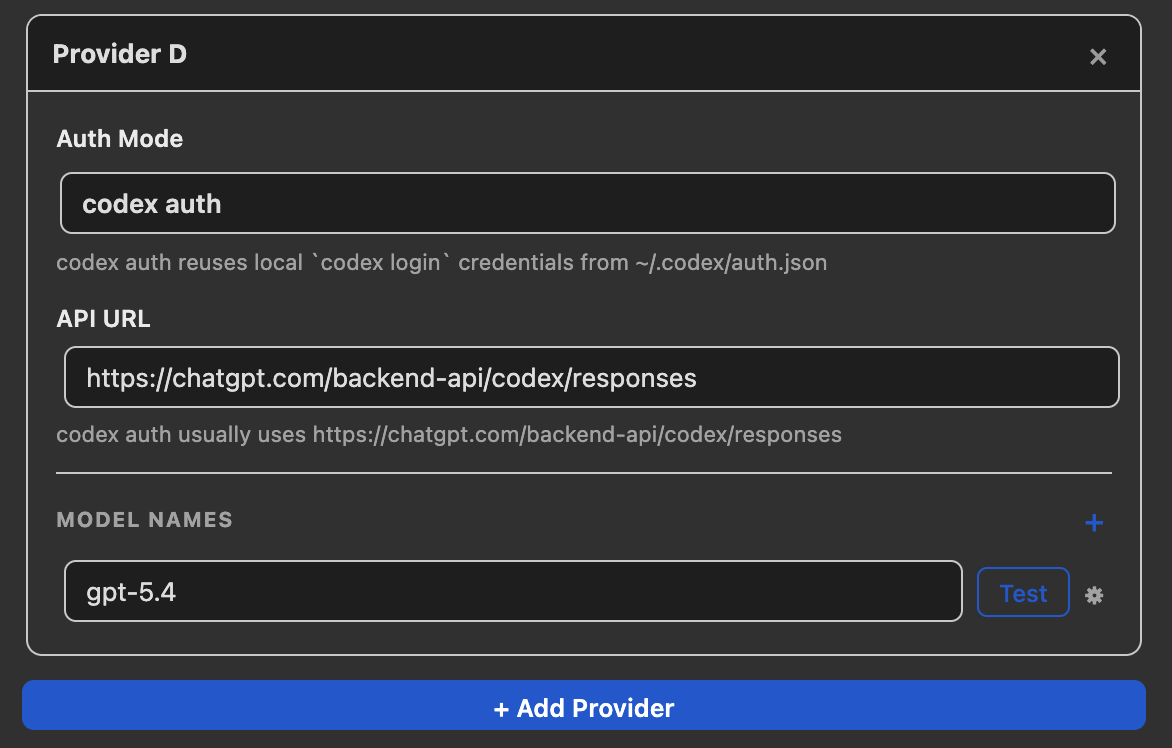
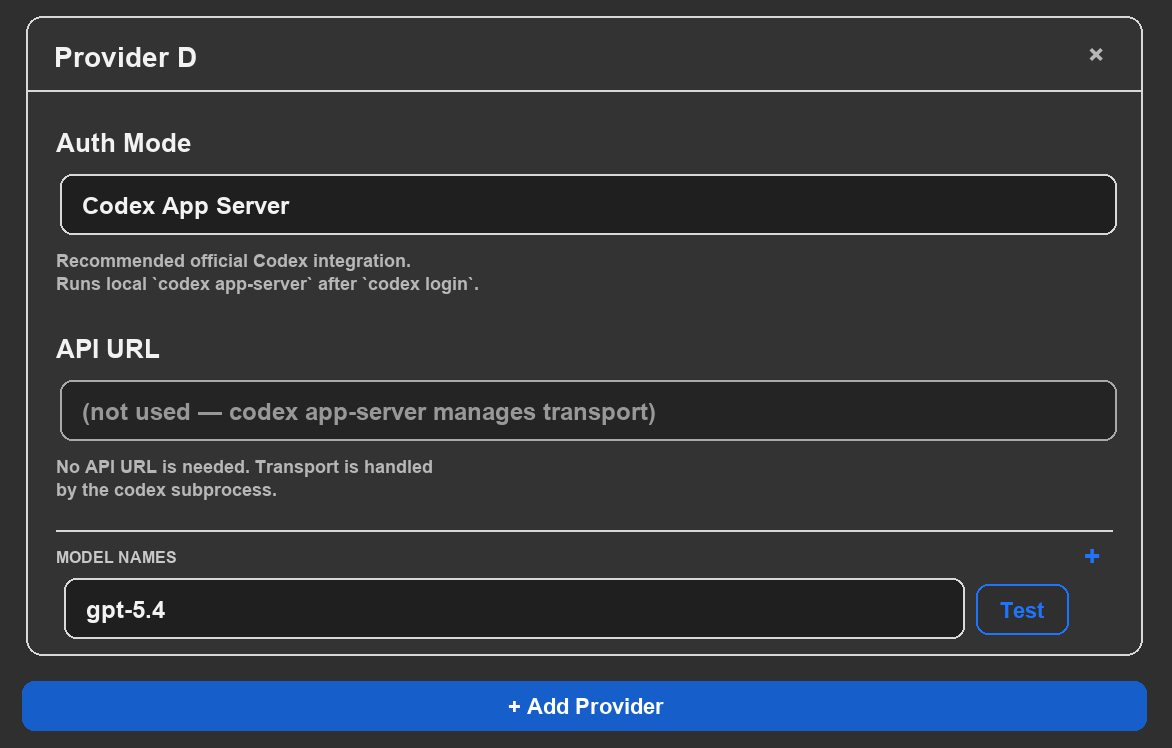
update docs

diff --git a/_pages/llm-for-zotero.md b/_pages/llm-for-zotero.md
@@ -31,7 +31,7 @@ lang_alt: /llm-for-zotero/zh/
   </div>
   <div class="rtd-feature-card">
     <strong>Multi-Provider Support</strong>
-    <p>OpenAI, Gemini, DeepSeek, local OpenAI-compatible models, and more.</p>
+    <p>OpenAI, Anthropic, Gemini, DeepSeek, local OpenAI-compatible models, and more.</p>
   </div>
   <div class="rtd-feature-card">
     <strong>Agent Mode (Beta)</strong>
@@ -46,12 +46,12 @@ lang_alt: /llm-for-zotero/zh/
     <p>Open the LLM Assistant in its own dedicated window with a full-sized chat interface and conversation history sidebar.</p>
   </div>
   <div class="rtd-feature-card">
-    <strong>Obsidian Integration</strong>
-    <p>Write notes from Zotero papers directly to your Obsidian vault with metadata, citations, and extracted figures.</p>
+    <strong>File-Based Notes</strong>
+    <p>Save research notes as Markdown files in Obsidian, Logseq, or any local notes folder with metadata, citations, and extracted figures.</p>
   </div>
   <div class="rtd-feature-card">
     <strong>Customizable Skills</strong>
-    <p>9 built-in skills guide the agent's workflows for common tasks. Create your own with simple Markdown files.</p>
+    <p>8 built-in skills guide the agent's workflows for common tasks. Create your own with simple Markdown files.</p>
   </div>
 </div>
 
@@ -59,14 +59,13 @@ lang_alt: /llm-for-zotero/zh/
 
 ## Recent Updates
 
-- **Skills**: Customizable guidance files that shape how the agent handles different tasks. 9 built-in skills included, plus a portal for creating your own. See [Skills](#skills).
-- **Standalone Window Mode**: Open the LLM Assistant in its own dedicated window, separate from the reader sidebar. See [Standalone Window Mode](#standalone-window-mode).
-- **Obsidian Integration**: Write notes from Zotero papers directly to your Obsidian vault with customizable templates. See [Obsidian Integration](#obsidian-integration).
-- **Agent Mode (Beta)**: LLM-for-Zotero can now act as an autonomous agent inside your Zotero library.
-- **Terminal & File Access**: The agent can execute shell commands and read/write files on your local machine — like a coding agent inside Zotero.
-- **MCP Server**: External AI agents can connect to Zotero via the built-in Model Context Protocol server.
-- **Codex auth**: ChatGPT Plus subscribers can use Codex models such as `gpt-5.4` without a separate API key.
-- **MinerU PDF parsing**: High-fidelity extraction now preserves tables, equations, and figures more accurately.
+- **Codex App Server (recommended)**: ChatGPT Plus subscribers should use `Codex App Server`, the official local `codex app-server` auth flow, for Codex models such as `gpt-5.4` without an API key. The older direct backend flow remains available as `Codex Auth (Legacy)` for current users. Feature contributed by [@boltma](https://github.com/boltma) and [@jianghao-zhang](https://github.com/jianghao-zhang). See [Codex Setup](#codex-setup-chatgpt-plus-subscribers).
+- **Agent actions on flexible paper scopes**: `auto_tag` and `complete_metadata` now work on the current paper, selected papers, selected collections, or the whole library, with review cards before batch changes are applied.
+- **File-Based Notes**: Notes are no longer hard-coded to Obsidian. Configure any local Markdown directory, including Obsidian, Logseq, or a plain folder. See [File-Based Notes](#file-based-notes).
+- **Standalone note editing fixes**: Standalone windows now preserve the active note-editing context in the context area.
+- **Claude/Anthropic compatibility fixes**: Anthropic message sequencing was updated and Claude Opus 4.7 support was added.
+- **Skills**: Customizable guidance files shape how the agent handles different tasks. 8 built-in skills are included, plus a portal for creating your own. See [Skills](#skills).
+- **MinerU PDF parsing**: High-fidelity extraction preserves tables, equations, and figures more accurately.
 
 ---
 
@@ -260,42 +259,42 @@ While the standalone window is open, the reader sidebar panels show a placeholde
 
 ---
 
-## Obsidian Integration
+## File-Based Notes
 
-The agent can write notes from your Zotero papers directly into your [Obsidian](https://obsidian.md/) vault &mdash; with full metadata, citations, and optionally extracted figures.
+Beyond Zotero's built-in notes, the agent can save research notes as Markdown files in any local directory you choose. The plugin is **not tied to any specific note-taking app**: point it at an Obsidian vault, a Logseq graph, or a plain folder of `.md` files.
 
 ### Configuration
 
-Open **Preferences** &rarr; **llm-for-zotero** and scroll to the **Obsidian Integration** section.
+Open **Preferences** &rarr; **llm-for-zotero** and scroll to the **Notes Directory** section.
 
-<img src="/images/llm-for-zotero/obsidian_setting.png" alt="Obsidian Integration settings" style="max-width:512px;">
+<img src="/images/llm-for-zotero/outside_notes.png" alt="Notes Directory settings" style="max-width:512px;">
 
-| Setting | Description | Default |
+| Setting | Description | Example |
 |---|---|---|
-| **Vault Path** | Absolute path to your Obsidian vault root | _(required)_ |
-| **Default Folder** | Subfolder for notes (created if it doesn't exist) | `Logs` |
-| **Attachments Folder** | Subfolder for copied figures and images | `imgs` |
-| **Note Template** | Markdown template with `{% raw %}{{title}}{% endraw %}`, `{% raw %}{{date}}{% endraw %}`, `{% raw %}{{content}}{% endraw %}` placeholders | Built-in default |
+| **Nickname** | How you refer to this directory in chat; the agent recognizes the name when you mention it | `Obsidian`, `Logseq` |
+| **Notes Directory Path** | Absolute path to the root directory where notes are saved | `/Users/me/MyVault` |
+| **Default Folder** | Default subfolder for new notes; the agent can write elsewhere if you ask it to | `Logs` |
+| **Attachments Folder** | Folder for copied figures and images, relative to the directory root | `Logs/imgs` |
 
-Click **Test Write Access** to verify the plugin can write to your vault.
+Click **Test Write Access** to verify the plugin can write to your directory.
 
 ### How it works
 
-Ask the agent to write a note to Obsidian (e.g. *"Summarize this paper and save it to Obsidian"*). The agent will:
+Ask the agent to write a note using the nickname you configured, for example *"Summarize this paper and save it to Obsidian"* or *"Log this to my Logseq"*. The agent will:
 
-1. **Gather content** from the paper (metadata, summary, key points, etc.).
-2. **Compose a Markdown note** using your configured template.
-3. **Add YAML frontmatter** with title, date, tags, authors, year, and citation key.
-4. **Copy figures** (optional) from MinerU-parsed PDFs into the attachments folder.
-5. **Write the note** to `{vault_path}/{default_folder}/{title}.md`.
+1. **Gather content** from the paper, including metadata, summary, key points, and figures when available.
+2. **Compose a Markdown note** following the `write-note` skill.
+3. **Add YAML frontmatter** matching the `write-note` template: `title`, `created`, `tags`, `citekey`, `doi`, and `journal`; author information stays in the note body.
+4. **Copy figures** from MinerU-parsed PDFs into the attachments folder when requested.
+5. **Write the note** to `{notes_directory}/{default_folder}/{title}.md`.
 
-<img src="/images/llm-for-zotero/obsidian_example.png" alt="A Zotero paper note in Obsidian">
+<img src="/images/llm-for-zotero/obsidian_example.png" alt="A Zotero paper note rendered in Obsidian">
 
-Notes use [Pandoc citation syntax](https://pandoc.org/MANUAL.html#citations) (`[@citekey]`), compatible with Obsidian's Zotero Integration and Pandoc plugins.
+Notes use [Pandoc citation syntax](https://pandoc.org/MANUAL.html#citations) (`[@citekey]`), compatible with Obsidian's Zotero Integration and Pandoc plugins, as well as most Markdown readers.
 
 <div class="rtd-tip">
   <div class="rtd-admonition-title">Tip</div>
-  The Obsidian integration works best when <strong>Agent Mode</strong> is enabled. The agent handles content extraction, template formatting, and file writing automatically.
+  Note templates and figure-embedding rules live in the <code>write-note</code> skill. Open the Standalone Window, then the Skills portal, to customize them.
 </div>
 
 ---
@@ -307,45 +306,49 @@ Notes use [Pandoc citation syntax](https://pandoc.org/MANUAL.html#citations) (`[
   Agent Mode is disabled by default. Enable it in <strong>Preferences</strong>, then toggle <strong>Agent (beta)</strong> in the context bar.
 </div>
 
-When enabled, the LLM becomes an **autonomous agent** that can read, search, and write within your Zotero library — and beyond. In addition to library operations, the agent can execute terminal commands and access files on your local machine, functioning like a coding agent inside Zotero. All write operations require your explicit approval before execution.
+When enabled, the LLM becomes an **autonomous agent** that can read, search, and write within your Zotero library. Read tools run directly; write tools route through confirmation cards and stay undoable.
 
-### Read Tools
+### Library & PDF Reading Tools
 
-These tools let the agent explore your library and the scholarly web without modifying anything.
+These tools let the agent explore your library, PDFs, attachments, and scholarly sources without modifying anything.
 
 | Tool | Description |
 |---|---|
-| `query_library` | Search and list Zotero items, collections, related papers, and duplicates. Supports multiple query modes (list, search, duplicates, unfiled, untagged) with filtering by collection, PDF status, and tags |
-| `read_library` | Read structured item state: metadata, notes, annotations, attachments (all types), and collection membership |
-| `inspect_pdf` | Advanced PDF operations: read front matter, search pages, retrieve evidence, render pages, capture the active reader view, and read specific chunks or full documents |
-| `search_literature_online` | Search live scholarly sources (OpenAlex, arXiv, EuropePMC) or fetch external metadata (CrossRef, Semantic Scholar). Modes: recommendations, references, citations, search, metadata |
+| `query_library` | Discover Zotero items and collections: search or list any item type, filter by author, year, collection, item type, or tag, browse the collection tree, find related papers, and detect duplicates |
+| `read_library` | Read structured item state for one or more items: metadata, notes, annotations, attachments, and collection membership |
+| `read_paper` | Read text content from a PDF, either opening sections by default or specific section indexes, with up to 20 papers per call |
+| `search_paper` | Find evidence in papers via a question and return ranked relevant passages, with up to 10 papers per call |
+| `view_pdf_pages` | Render PDF pages as images for visual analysis, by question, by page number, or by capturing the currently visible page |
+| `read_attachment` | Read any Zotero attachment by ID, including HTML snapshots, text files, and images, or send the whole file to the model |
+| `search_literature_online` | Search live scholarly sources such as CrossRef and Semantic Scholar for metadata, recommendations, references, and citations |
 
-### Write Tools
+### Library Write Tools
 
 All write tools require human confirmation before changes take effect.
 
 | Tool | Description |
 |---|---|
-| `apply_tags` | Add or remove tags on one or more papers, with batch support |
-| `update_metadata` | Update metadata fields (title, authors, DOI, journal, abstract, etc.) on items |
-| `move_to_collection` | Move items between Zotero collections |
-| `manage_collections` | Create or delete collections (folders) with optional nesting |
-| `edit_current_note` | Create or edit Zotero notes, with local image import support |
-| `import_identifiers` | Import papers by DOI, arXiv ID, or other identifiers — Zotero auto-retrieves metadata |
-| `import_local_files` | Import local files (PDFs, documents) from the filesystem into Zotero |
-| `manage_attachments` | Add or remove attachments (PDFs, supplementary files) on items |
-| `merge_items` | Merge duplicate items: keeps master, moves all children from duplicates, then trashes duplicates |
-| `trash_items` | Move items to trash |
-| `undo_last_action` | Revert the last approved write batch |
+| `apply_tags` | Add or remove tags on one or more papers |
+| `update_metadata` | Update metadata fields such as title, authors, DOI, journal, or abstract |
+| `move_to_collection` | Add or remove papers from collections |
+| `manage_collections` | Create or delete collections |
+| `manage_attachments` | Delete, rename, or re-link broken attachment file paths |
+| `merge_items` | Merge duplicates: keep the master item, move children from the others, and trash the rest |
+| `trash_items` | Move items to the trash |
+| `import_identifiers` | Import papers by DOI, ISBN, arXiv ID, or URL |
+| `import_local_files` | Import local files into Zotero; Zotero auto-fetches metadata for recognized PDFs |
+| `edit_current_note` | Edit the active Zotero note or create a new one using plain text, Markdown, or HTML |
+| `undo_last_action` | Undo the most recent approved write action in this conversation |
 
-### Terminal & File System Access
+### Filesystem & Scripting Tools
 
-The agent includes two system-level tools that turn it into a **coding agent** capable of running scripts and processing data — all from within Zotero.
+The agent includes system-level tools for local files, scripts, and Zotero runtime automation.
 
 | Tool | Description |
 |---|---|
-| `run_command` | Execute shell commands on your local machine (zsh on macOS, bash on Linux, cmd.exe on Windows). Pipes, redirects, globbing, and all shell features work. 300-second timeout per command |
-| `file_io` | Read and write files on your local filesystem. Supports UTF-8 and other encodings |
+| `file_io` | Read or write files on the local filesystem, including text and image files, with offset and length support for partial reads |
+| `run_command` | Run a shell command on your local machine (zsh on macOS, bash on Linux, cmd.exe on Windows) for analysis scripts and CLI tools |
+| `zotero_script` | Execute JavaScript inside Zotero's runtime; use read mode for bulk data and write mode for custom mutations |
 
 **Example use cases:**
 
@@ -366,11 +369,13 @@ The agent provides high-level actions for common library workflows. These chain 
 
 | Action | What it does |
 |---|---|
-| **Audit Library** | Scan your library (or a collection) for items with incomplete metadata — missing abstract, DOI, tags, or PDF attachment. Optionally saves the report as a Zotero note |
-| **Auto-Tag** | Find all papers without tags and open a batch tag-assignment dialog for your review |
-| **Discover Related** | Find related papers to a seed paper through recommendations, references, or citations from scholarly sources |
-| **Sync Metadata** | Fetch external metadata (CrossRef, Semantic Scholar) and apply updates across items |
+| **Audit Library** | Scan your library or a collection for incomplete metadata, missing PDFs, missing tags, and other gaps; optionally save the report as a Zotero note |
+| **Auto-Tag** | Suggest tags for the current paper, selected papers, selected collections, or the whole library, then open an editable batch tag-review dialog |
+| **Complete Metadata** | Audit targeted papers for missing bibliographic fields, fetch canonical metadata, and open one review card for the proposed updates |
+| **Discover Related** | Find related papers from recommendations, references, or citations |
 | **Organize Unfiled** | Find unfiled items and organize them into collections via an interactive review workflow |
+| **Literature Review** | Launch the guided literature review workflow |
+| **Library Statistics** | Summarize library or collection statistics such as item types, years, authors, journals, collections, tags, annotations, and growth over time |
 
 ### MCP Server
 
@@ -408,7 +413,7 @@ The agent can chain multiple tools together to accomplish complex tasks, such as
 
 #### Write a note
 
-<img src="https://raw.githubusercontent.com/yilewang/llm-for-zotero/main/assets/agent/write_note.png" alt="Agent writing a note">
+<img src="/images/llm-for-zotero/agent/write_note.gif" alt="Agent writing a note">
 
 ### Safety & Confirmation
 
@@ -435,19 +440,18 @@ Skills are customizable guidance files that shape how the agent approaches diffe
 
 ### Built-in Skills
 
-The plugin ships with **9 built-in skills** covering common research workflows. They are automatically copied to your skills folder on first run.
+The plugin ships with **8 built-in skills** covering common research workflows. They are automatically copied to your skills folder on first run.
 
 | Skill | Triggers on | What it guides the agent to do |
 |---|---|---|
-| `simple-paper-qa` | General questions about a paper (summary, findings, authors, TLDR) | Read the paper once and answer immediately &mdash; avoids unnecessary retrieval calls |
+| `simple-paper-qa` | General questions about a paper, such as summaries, findings, authors, or TLDR requests | Read the paper once and answer immediately, avoiding unnecessary retrieval calls |
 | `evidence-based-qa` | Questions about specific methods, results, data, or claims | Read first, then use targeted `search_paper` retrieval for specific evidence |
-| `analyze-figures` | References to figures, tables, or diagrams by number | Use MinerU-cached images when available; send images directly to the model |
-| `compare-papers` | Requests to compare or contrast multiple papers | Batch front-matter reads, then targeted evidence retrieval for comparison points |
-| `library-analysis` | Requests to summarize, analyze, or audit your library | Use efficient scripting to iterate all items at once instead of paginating |
-| `literature-review` | Requests for a literature review or research synthesis | Three-phase workflow: discover papers, deep-read the top 3&ndash;5, then synthesize thematically |
-| `note-from-paper` | Requests to create reading notes from a paper | Read the paper, optionally include MinerU-extracted figures, write a Zotero note |
-| `note-editing` | Requests to save, edit, or create notes | Smart defaults for note target (paper vs. standalone), prefer patches over full rewrites |
-| `write-to-obsidian` | Requests to export to Obsidian | Compose with YAML frontmatter, Pandoc citations, and optional figure copying |
+| `analyze-figures` | References to figures, tables, or diagrams by number | Use MinerU-cached images when available and send images directly to the model |
+| `compare-papers` | Requests to compare or contrast multiple papers | Batch paper reads and then retrieve focused evidence for comparison points |
+| `library-analysis` | Requests to summarize, analyze, or audit your library | Use efficient scripting to iterate library items instead of paginating through context |
+| `literature-review` | Requests for a literature review or research synthesis | Discover papers, deep-read the most relevant few, and synthesize thematically |
+| `write-note` | Requests to write reading notes as Zotero notes or Markdown files in your notes directory | Compose notes with metadata, Pandoc citations, and optional figure copying |
+| `import-cited-reference` | Requests to import papers cited in the current PDF | Extract references and import the selected cited papers into Zotero |
 
 ### How Skills Work
 
@@ -549,11 +553,16 @@ Open a ChatGPT tab in your browser and keep it open. In Zotero, the plugin panel
 
 ---
 
-## Codex Auth Setup
+## Codex Setup (ChatGPT Plus Subscribers)
 
-If you have a **ChatGPT Plus** subscription, you can use **Codex auth** to access models like `gpt-5.4` without a separate API key. The plugin reuses your ChatGPT login via the Codex CLI.
+If you have a **ChatGPT Plus** subscription, you can use Codex models such as `gpt-5.4` in the plugin without a separate API key by signing in through the Codex CLI.
 
-_Special thanks to [@jianghao-zhang](https://github.com/jianghao-zhang) for contributions to this feature._
+There are two Codex-backed modes in the plugin. New users should choose **Codex App Server**.
+
+- **Codex App Server (Recommended)**: Spawns the local `codex app-server` CLI and talks to it over stdio. This is the official way to use Codex in third-party apps and the preferred setup for new users.
+- **Codex Auth (Legacy)**: Uses the ChatGPT/Codex Responses backend directly. Existing users can keep this configuration for now, but new users should choose `Codex App Server`.
+
+_Special thanks to [@boltma](https://github.com/boltma) for contributing the Codex App Server integration._
 
 ### Step-by-step setup
 
@@ -579,21 +588,23 @@ A browser window opens — sign in with your ChatGPT Plus account. Credentials a
 
 In Zotero &rarr; **Preferences** &rarr; **llm-for-zotero**:
 
-| Setting | Value |
+| Setting | Recommended value |
 |---|---|
-| Auth Mode | `codex auth` |
-| API URL | `https://chatgpt.com/backend-api/codex/responses` |
+| Auth Mode | `Codex App Server` |
+| API URL | Leave blank |
 | Model | e.g. `gpt-5.4` |
 
 Click **Test Connection** to verify.
 
-<img src="/images/llm-for-zotero/codex.png" alt="Codex auth configuration">
+Existing users who need the old path can choose `Codex Auth (Legacy)`, keep API URL `https://chatgpt.com/backend-api/codex/responses`, and use the same Codex model name.
 
-### Technical Notes
+<img src="/images/llm-for-zotero/codex.png" alt="Recommended Codex App Server configuration">
+
+### Codex Auth (Legacy) Technical Notes
 
 - Reads local credentials from `~/.codex/auth.json` (or `$CODEX_HOME/auth.json`).
 - Automatically attempts token refresh on 401 responses.
-- Embeddings are not supported in codex auth mode yet.
+- Embeddings are not supported in legacy direct mode yet.
 - Local PDF/reference text grounding and screenshot/image inputs are supported.
 - The Responses `/files` upload + `file_id` attachment flow is not supported yet.
 
@@ -631,7 +642,7 @@ When a personal API key is provided, the plugin calls the MinerU API directly at
 
 **Is it free to use?**
 
-Yes, the plugin is completely free and open source (AGPL v3). You only pay for API calls to your chosen provider. With Codex auth, ChatGPT Plus subscribers can use their existing subscription without a separate API key.
+Yes, the plugin is completely free and open source (AGPL v3). You only pay for API calls to your chosen provider. With Codex App Server auth, ChatGPT Plus subscribers can use their existing subscription without a separate API key.
 
 **Does it work with local models?**
 
